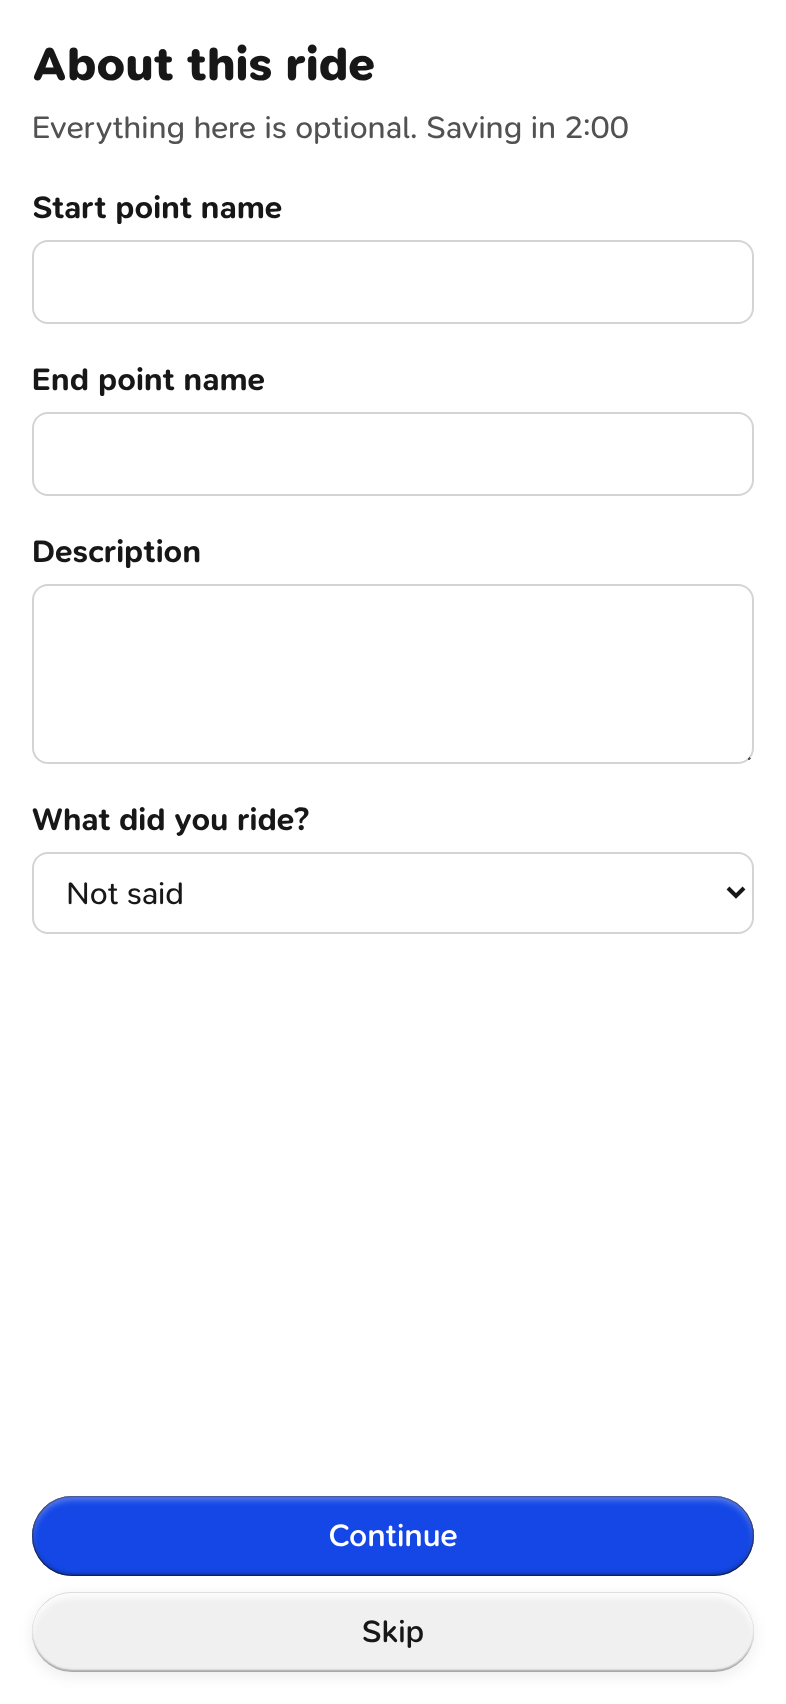
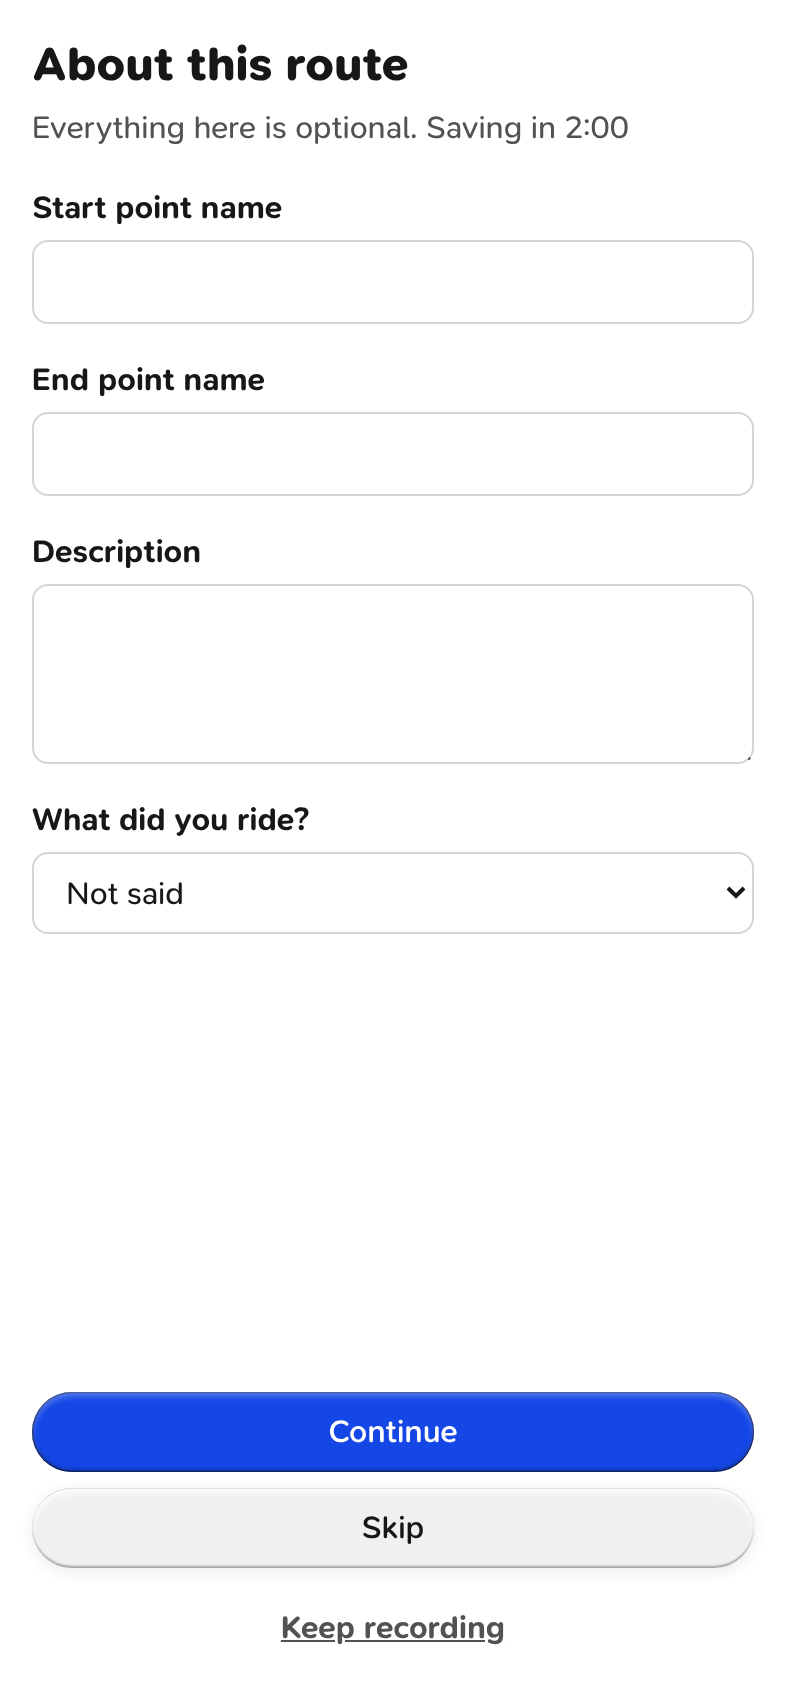
Contribute: Keep recording on the Save form; no 'ride' for a contribution on screen
Keep recording closes the form, drops the countdown and resumes as Resume does
(the time on the form is a gap, the ways and markers stay, hasAutoStopped stays
set). It says 'Recording again' once and puts focus on the Stop bar.
User-facing 'ride' for a recording becomes 'route' or 'recording'.

Claude-Session: https://claude.ai/code/session_01WfLzgZN7GoTdBPcUuVgV4g

Changed region(s): [[0.0305, 0.8087, 0.9771, 0.9642], [0.3969, 0.0311, 0.5191, 0.0622]]

diff --git a/src/features/contribute/save-form.tsx b/src/features/contribute/save-form.tsx
@@ -12,6 +12,8 @@ interface SaveFormProps {
   /** Fixes the phone could not keep; above zero, the ride is incomplete and can be downloaded now. */
   failedFixWrites: number;
   onDownload: () => void;
+  /** Back to recording, for a stop that was a mistake. */
+  onKeepRecording: () => void;
   /** Continue, and the form's two minutes running out, save what was said; Skip saves without. */
   onSave: (details: RecordingDetails | null) => void;
 }
@@ -26,7 +28,7 @@ const isRideKind = (value: string): value is RideKind => RIDE_KINDS.some((kind) 
  * alone for two minutes it saves the ride with what was typed, so a phone put
  * away after the ride does not keep a recording open.
  */
-export function SaveForm({ failedFixWrites, onDownload, onSave }: SaveFormProps) {
+export function SaveForm({ failedFixWrites, onDownload, onKeepRecording, onSave }: SaveFormProps) {
   const ids = useId();
   const headingRef = useFocusHeading();
   const [details, setDetails] = useState<RecordingDetails>({
@@ -56,7 +58,7 @@ export function SaveForm({ failedFixWrites, onDownload, onSave }: SaveFormProps)
           tabIndex={-1}
           className="text-2xl/8 font-extrabold focus:outline-none"
         >
-          About this ride
+          About this route
         </h1>
         <p className="text-base/6 text-content-quaternary">
           Everything here is optional. Saving in {countdownText(secondsLeft)}
@@ -65,10 +67,10 @@ export function SaveForm({ failedFixWrites, onDownload, onSave }: SaveFormProps)
       {failedFixWrites > 0 && (
         <div className="flex flex-col gap-2">
           <p role="alert" className="text-base/6">
-            The phone could not keep {failedFixWrites} fixes. Download this ride now, before you
-            close the page.
+            The phone could not keep {failedFixWrites} fixes. Download this recording now, before
+            you close the page.
           </p>
-          <Button variant="secondary" label="Download this ride" onClick={onDownload} />
+          <Button variant="secondary" label="Download this recording" onClick={onDownload} />
         </div>
       )}
       <label className="flex flex-col gap-1 text-base/6 font-bold" htmlFor={`${ids}-start`}>
@@ -123,6 +125,14 @@ export function SaveForm({ failedFixWrites, onDownload, onSave }: SaveFormProps)
       <div className="mt-auto flex flex-col gap-2">
         <Button variant="primary" type="submit" label="Continue" />
         <Button variant="secondary" label="Skip" onClick={() => onSave(null)} />
+        {/* The design system has no tertiary or ghost Button: a quiet text button in tokens, 44 px tall. */}
+        <button
+          type="button"
+          onClick={onKeepRecording}
+          className="min-h-11 text-base/6 font-bold text-content-quaternary underline focus-visible:outline-2 focus-visible:outline-offset-2 focus-visible:outline-content-primary"
+        >
+          Keep recording
+        </button>
       </div>
     </form>
   );

diff --git a/src/features/contribute/recording-screen.tsx b/src/features/contribute/recording-screen.tsx
@@ -4,7 +4,6 @@ import { ConfirmDelete } from './confirm-delete';
 import { OTHER_WAY, type Way } from './recording-rules';
 import { StatsStrip } from './stats-strip';
 import { TrackingButton } from './tracking-button';
-import { useFocusHeading } from './use-focus-heading';
 import type { RecordingFigures } from './use-recording';
 import { useStackRoom } from './use-stack-room';
 
@@ -15,6 +14,8 @@ interface RecordingScreenProps {
   isPaused: boolean;
   /** Whether the screen is being kept awake. */
   isAwake: boolean;
+  /** Focus the Stop bar as the screen opens, not its heading: back from Keep recording. */
+  shouldFocusStop: boolean;
   onStop: () => void;
   onResume: () => void;
   onWaySwitch: () => void;
@@ -34,14 +35,24 @@ export function RecordingScreen({
   way,
   isPaused,
   isAwake,
+  shouldFocusStop,
   onStop,
   onResume,
   onWaySwitch,
   onSave,
   onCancel,
 }: RecordingScreenProps) {
-  const headingRef = useFocusHeading();
+  const headingRef = useRef<HTMLHeadingElement>(null);
   const stackRef = useStackRoom();
+  // The heading takes focus as the screen opens, a screen reader starting at its top; back from
+  // Keep recording it is the Stop bar, where the contributor was before.
+  useEffect(() => {
+    const section = headingRef.current?.closest('section');
+    const stop = section?.querySelector<HTMLButtonElement>('button[aria-label="Stop"]');
+    (shouldFocusStop ? stop : headingRef.current)?.focus();
+    // Once, as the screen opens.
+    // eslint-disable-next-line react-hooks/exhaustive-deps -- a change of the prop alone must not move focus
+  }, []);
   const [isAsking, setIsAsking] = useState(false);
   const cancelRef = useRef<HTMLDivElement>(null);
   const wasAsking = useRef(false);
@@ -61,7 +72,7 @@ export function RecordingScreen({
       className="absolute inset-x-0 bottom-0 z-10 flex flex-col pb-[env(safe-area-inset-bottom)]"
     >
       <h1 id="recording-heading" ref={headingRef} tabIndex={-1} className="sr-only">
-        {isPaused ? 'Recording stopped' : 'Recording a ride'}
+        {isPaused ? 'Recording stopped' : 'Recording a route'}
       </h1>
       {!isAwake && !isPaused && (
         <p className="mx-4 mb-2 bg-surface p-2 font-sn-pro text-sm/5 text-content-primary">

diff --git a/src/features/contribute/use-recording.ts b/src/features/contribute/use-recording.ts
@@ -72,6 +72,10 @@ export interface RecordingState {
   switchWay: () => void;
   /** Stops a running recording, then opens the Save form. */
   openSave: () => void;
+  /** From the Save form, back to recording as Resume does: the time on the form is a gap. */
+  keepRecording: () => void;
+  /** Where focus goes as the recording screen opens: its heading, or the Stop bar after Keep recording. */
+  focusTarget: 'heading' | 'stop';
   /** Saves the recording; with no details, as it is. */
   save: (details: RecordingDetails | null) => void;
   cancel: () => void;
@@ -109,6 +113,7 @@ export function useRecording(): RecordingState {
   });
   const [now, setNow] = useState(() => Date.now());
   const [announcement, setAnnouncement] = useState('');
+  const [focusTarget, setFocusTarget] = useState<'heading' | 'stop'>('heading');
   // Two slots, so a location error never hides a storage failure: storage stays
   // until a new recording starts, location clears when the next fix arrives.
   const [storageProblem, setStorageProblem] = useState<string | null>(null);
@@ -237,6 +242,7 @@ export function useRecording(): RecordingState {
     setStorageProblem(null);
     setLocationError(null);
     setAnnouncement('');
+    setFocusTarget('heading');
     failedFixWrites.current = 0;
     keep({
       version: RECORDING_VERSION,
@@ -272,6 +278,8 @@ export function useRecording(): RecordingState {
   const stopAtLastFix = () => finish(fixes[fixes.length - 1]?.time ?? Date.now(), 'paused');
 
   function openSave() {
+    // Cleared, so the same words are announced again after the next Keep recording.
+    setAnnouncement('');
     if (phase === 'recording') finish(Date.now(), 'form');
     else setPhase('form');
   }
@@ -300,6 +308,12 @@ export function useRecording(): RecordingState {
       gaps: [...recording.gaps, ...lost],
     });
     setPhase('recording');
+  }
+
+  function keepRecording() {
+    resume();
+    setFocusTarget('stop');
+    setAnnouncement('Recording again');
   }
 
   function switchWay() {
@@ -400,6 +414,8 @@ export function useRecording(): RecordingState {
     resume,
     switchWay,
     openSave,
+    keepRecording,
+    focusTarget,
     save,
     cancel,
     recordAgain,

diff --git a/src/features/contribute/saved-screen.tsx b/src/features/contribute/saved-screen.tsx
@@ -26,14 +26,14 @@ export function SavedScreen({ failedFixWrites, onRecordAgain, onDownload }: Save
       >
         Successfully recorded
       </h1>
-      <p className="text-base/6 text-content-quaternary">Your ride is kept on this phone.</p>
+      <p className="text-base/6 text-content-quaternary">Your recording is kept on this phone.</p>
       {failedFixWrites > 0 && (
         <p className="text-base/6">
-          The phone could not keep {failedFixWrites} fixes of this ride.
+          The phone could not keep {failedFixWrites} fixes of this recording.
         </p>
       )}
       <Button variant="primary" label="Record again" onClick={onRecordAgain} />
-      {/* TODO: remove at contribute/13, when a saved recording is sent to the studio. Field test only: there is no database to read the ride from yet. */}
+      {/* TODO: remove at contribute/13, when a saved recording is sent to the studio. Field test only: there is no database to read the recording from yet. */}
       <button
         type="button"
         onClick={onDownload}

diff --git a/src/features/contribute/contribute-page.tsx b/src/features/contribute/contribute-page.tsx
@@ -53,6 +53,7 @@ export function ContributePage() {
           way={recording.way}
           isPaused={phase === 'paused'}
           isAwake={recording.isAwake}
+          shouldFocusStop={recording.focusTarget === 'stop'}
           onStop={recording.stop}
           onResume={recording.resume}
           onWaySwitch={recording.switchWay}
@@ -64,6 +65,7 @@ export function ContributePage() {
         <SaveForm
           failedFixWrites={recording.current?.failedFixWrites ?? 0}
           onDownload={recording.downloadCurrent}
+          onKeepRecording={recording.keepRecording}
           onSave={recording.save}
         />
       )}

diff --git a/src/features/contribute/consent-panel.tsx b/src/features/contribute/consent-panel.tsx
@@ -27,7 +27,7 @@ export function ConsentPanel({ onAgree, onDecline }: ConsentPanelProps) {
         Before you record
       </h1>
       <p className="text-base/6">
-        This page records where your ride goes using your phone&apos;s location, while it is open.
+        This page records the route you travel using your phone&apos;s location, while it is open.
         The recording stays on this phone for now. Nothing is sent anywhere.
       </p>
       <div className="flex flex-col gap-2">

diff --git a/src/features/contribute/ready-screen.tsx b/src/features/contribute/ready-screen.tsx
@@ -36,7 +36,7 @@ export function ReadyScreen({ onStart }: ReadyScreenProps) {
           className="absolute inset-x-0 bottom-0 z-10 pb-[env(safe-area-inset-bottom)]"
         >
           <h1 id="ready-heading" ref={headingRef} tabIndex={-1} className="sr-only">
-            Record a ride
+            Record a route
           </h1>
           <TrackingButton variant="start" onClick={onStart} />
         </section>

diff --git a/contribute/index.html b/contribute/index.html
@@ -8,7 +8,7 @@
     />
     <!-- A field test, reached by link only. Keep it out of search results. -->
     <meta name="robots" content="noindex, nofollow" />
-    <title>Para Po: record a ride</title>
+    <title>Para Po: record a route</title>
     <link rel="icon" type="image/png" href="/icons/favicon.png" />
   </head>
   <body>
